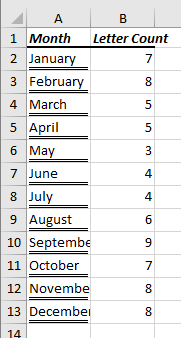
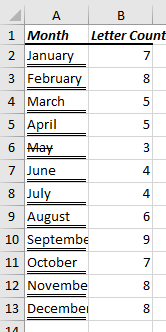
Add strikethrough.

Changed region(s): [[0.0, 0.0, 1.0, 1.0]]

diff --git a/README.md b/README.md
@@ -175,7 +175,7 @@ You can specify indents relative to the current indent level using `Go(IndentBy 
 ---
 ## Border and Font Styling
 
-You can add border and font emphasis (bold, italic or underline) styling using additional cell properties.
+You can add border and font emphasis (bold, italic, underline or strikethrough) styling using `Border (...)` and `FontEmphasis ...` cell properties.
 
 The border style values are in `ClosedXML.Excel.XLBorderStyleValues` and the underline values are in `ClosedXML.Excel.XLFontUnderlineValues`.
 
@@ -199,6 +199,8 @@ open ClosedXML.Excel
         Cell [ 
             String monthName
             FontEmphasis (Underline XLFontUnderlineValues.DoubleAccounting)
+            if monthName = "May" then
+                FontEmphasis StrikeThrough
         ]
         Cell [ Integer monthName.Length ]
         Go NewRow
